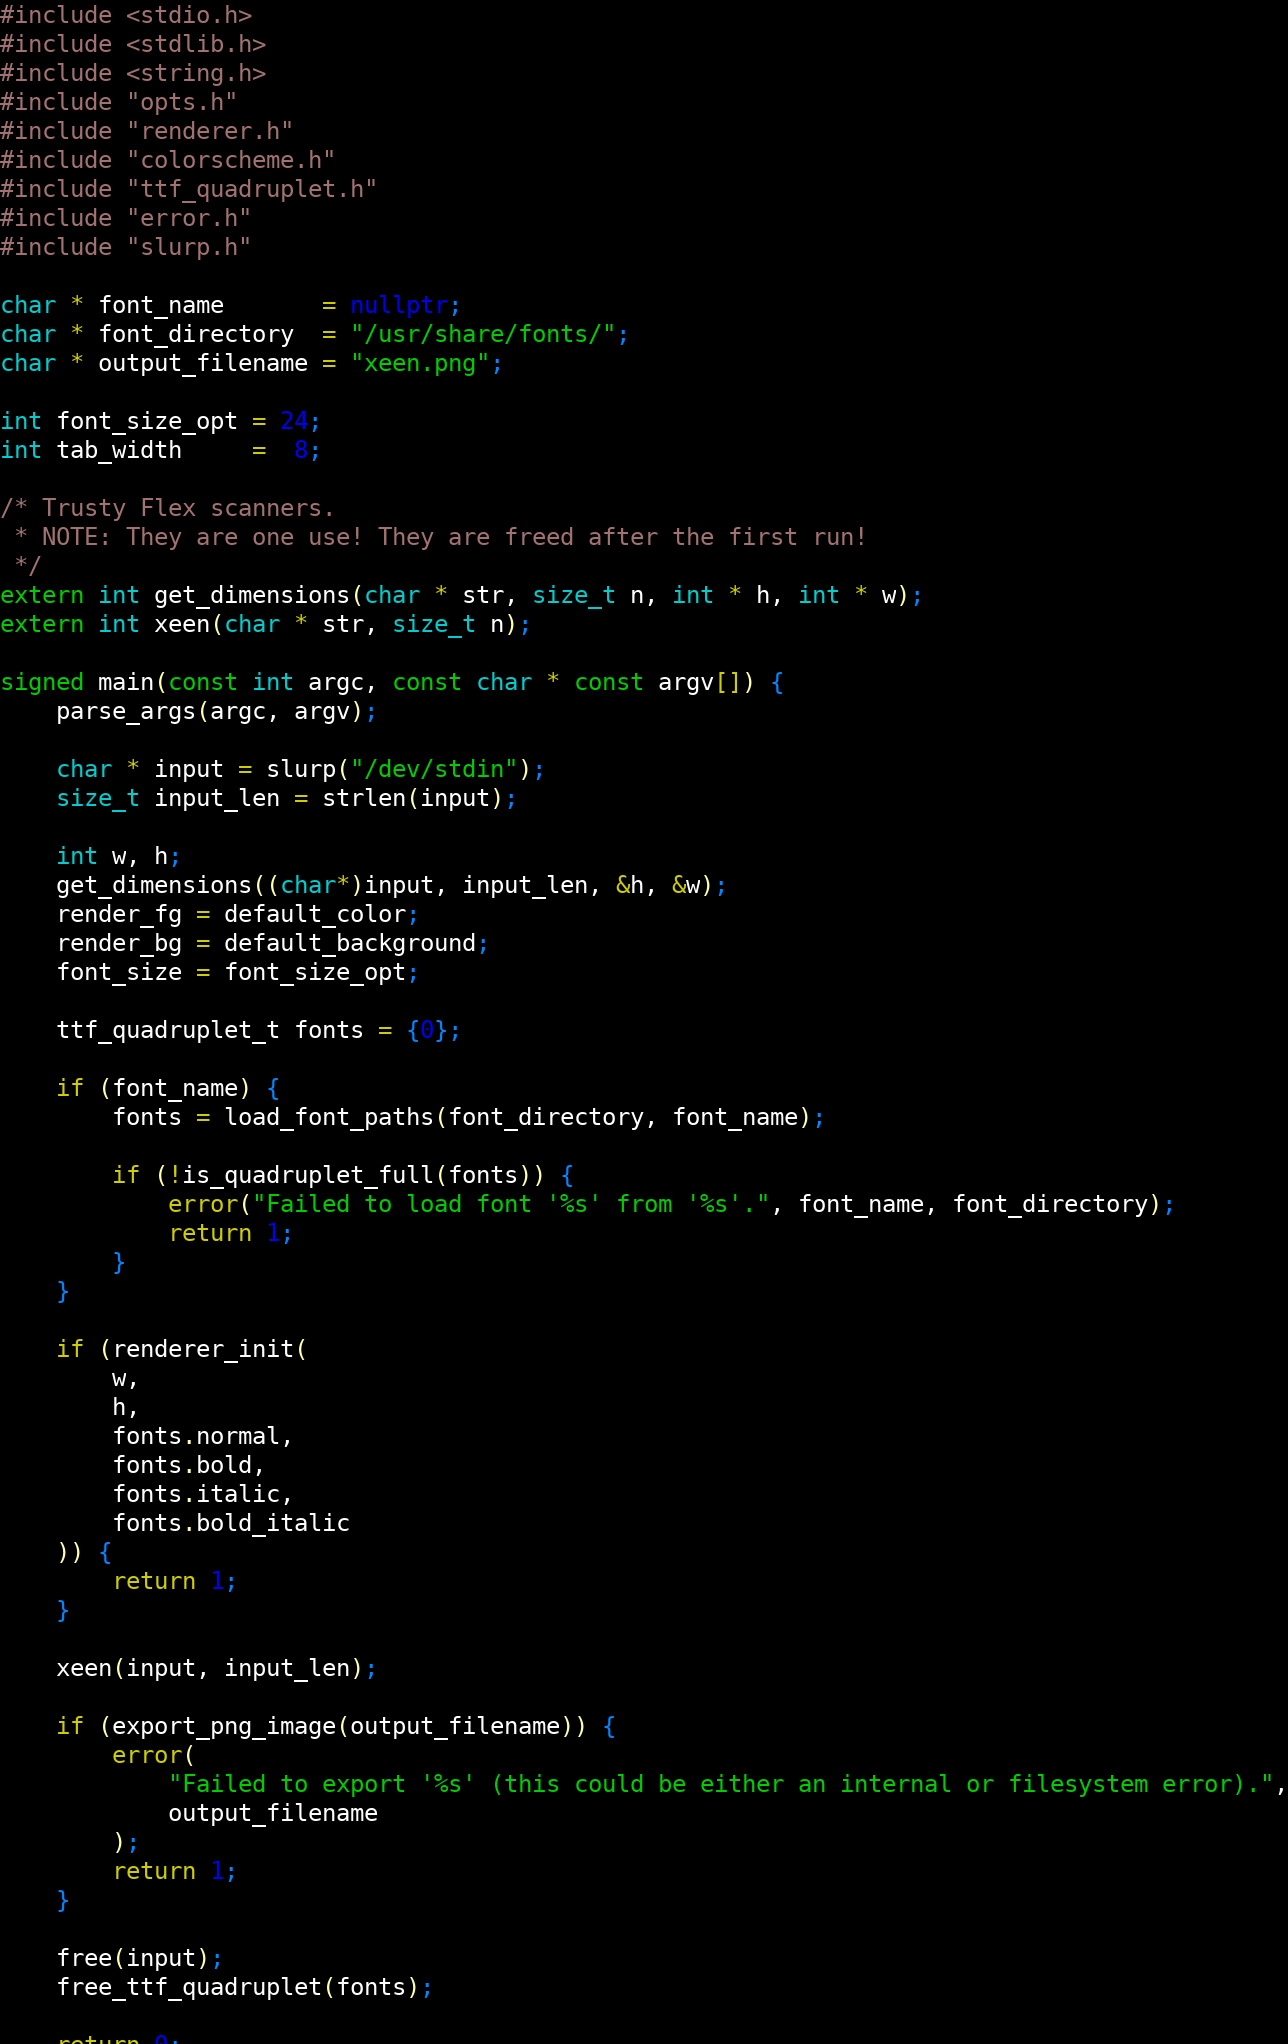
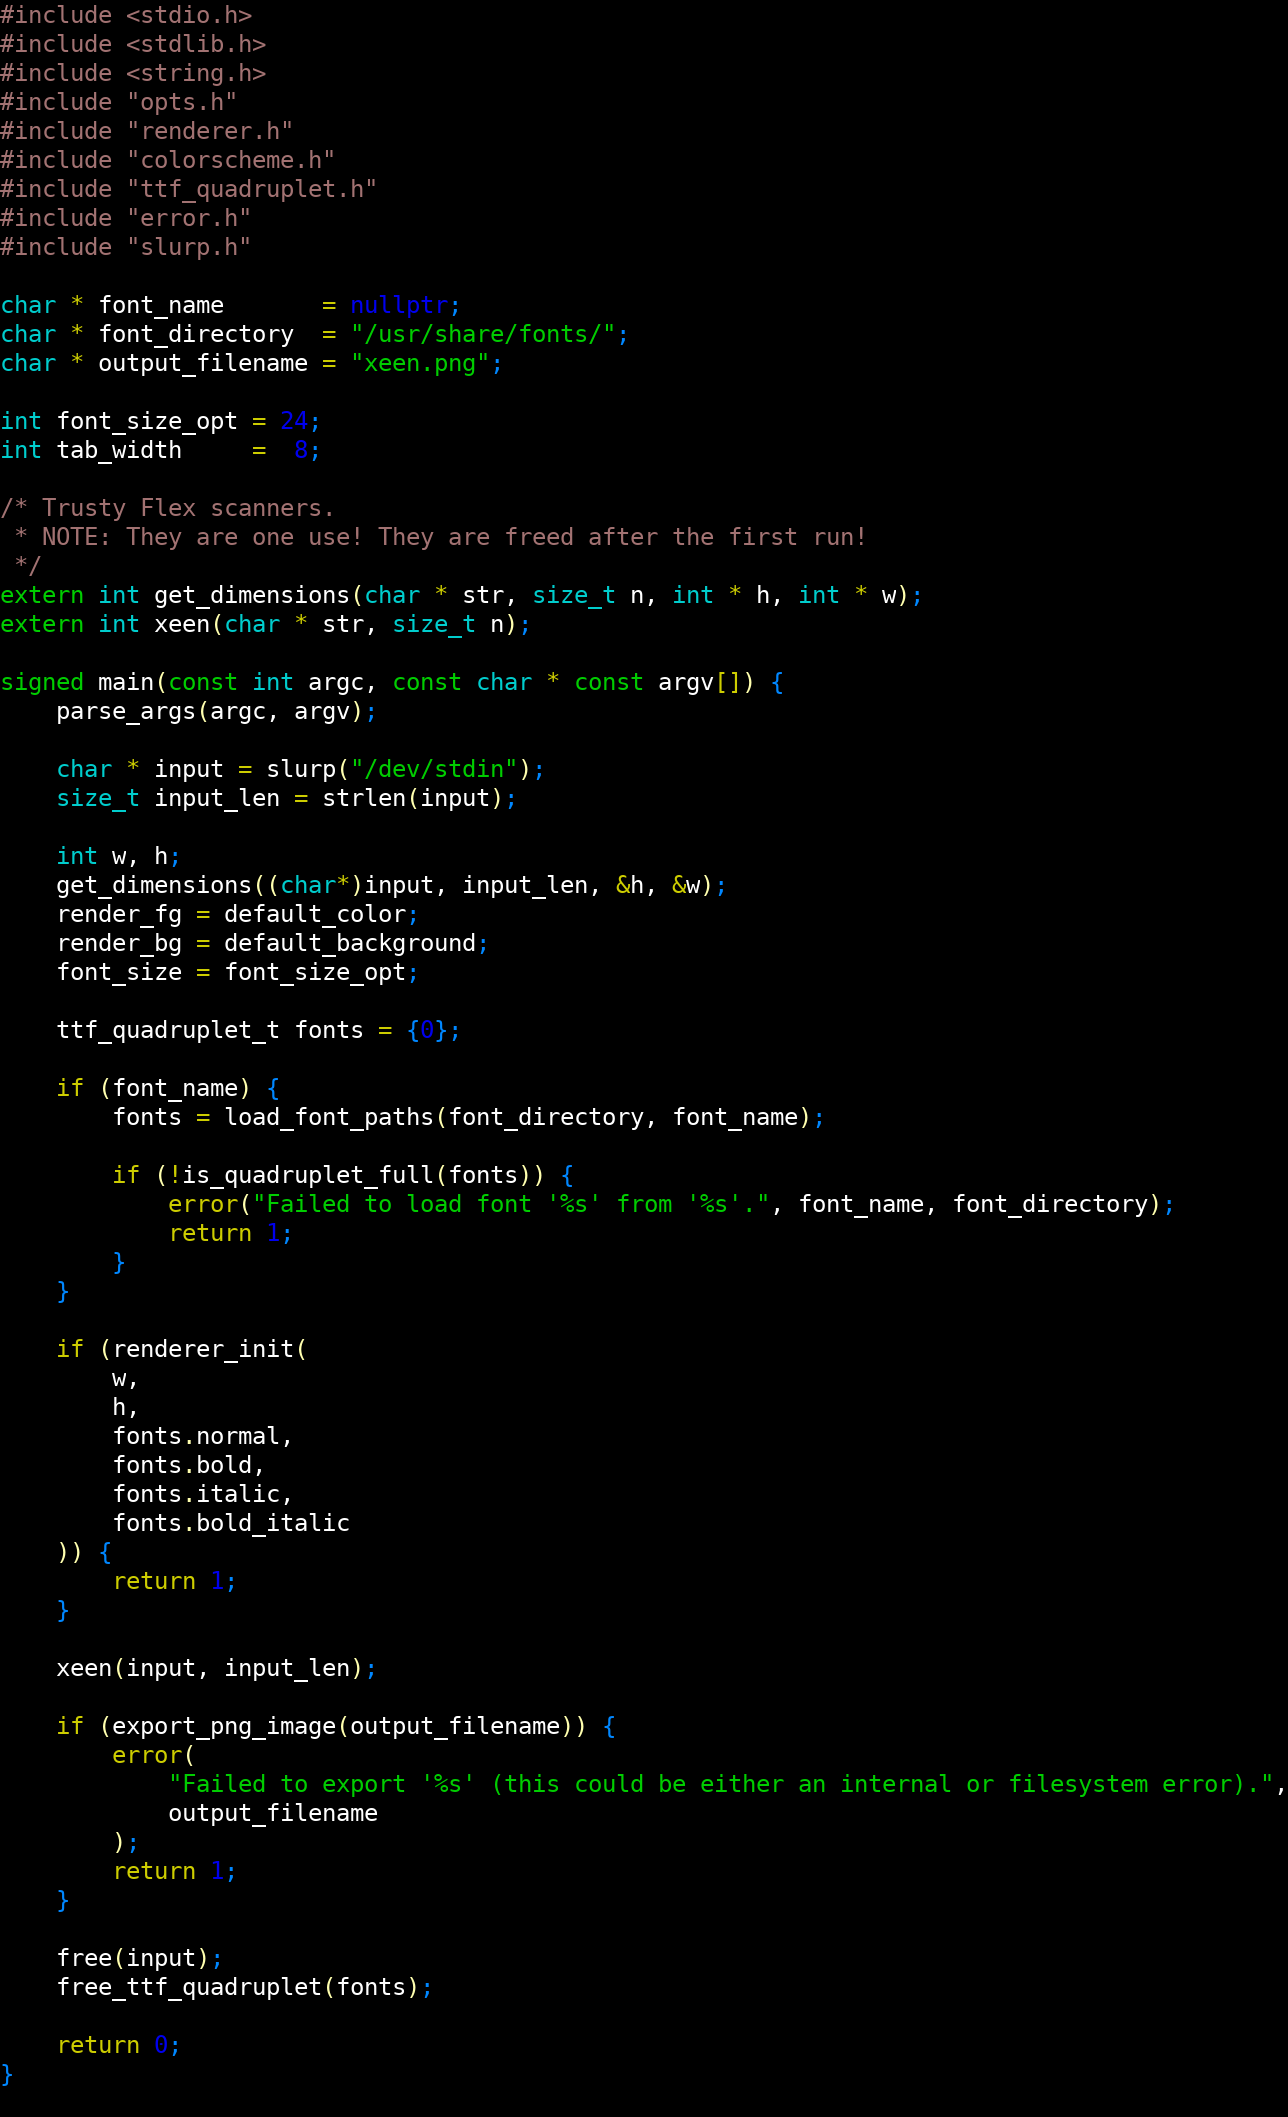
fix size calculation bug

diff --git a/source/renderer-freetype.c b/source/renderer-freetype.c
@@ -124,8 +124,11 @@ signed renderer_init(
 
     font_style = font_normal;
 
-    width  *= font_width[font_style];
-    height *= font_height[font_style];
+    font_indent = terminal_cell_width(faces[0]);
+    font_size   = terminal_line_height(faces[0]);
+
+    width  *= font_indent;
+    height *= font_size;
 
     render_data = calloc(width * height, sizeof(*render_data));
 
@@ -137,9 +140,6 @@ signed renderer_init(
 
     render_width  = width;
     render_height = height;
-
-    font_indent = terminal_cell_width(faces[0]);
-    font_size   = terminal_line_height(faces[0]);
 
     return 0;
   #undef CHECK
